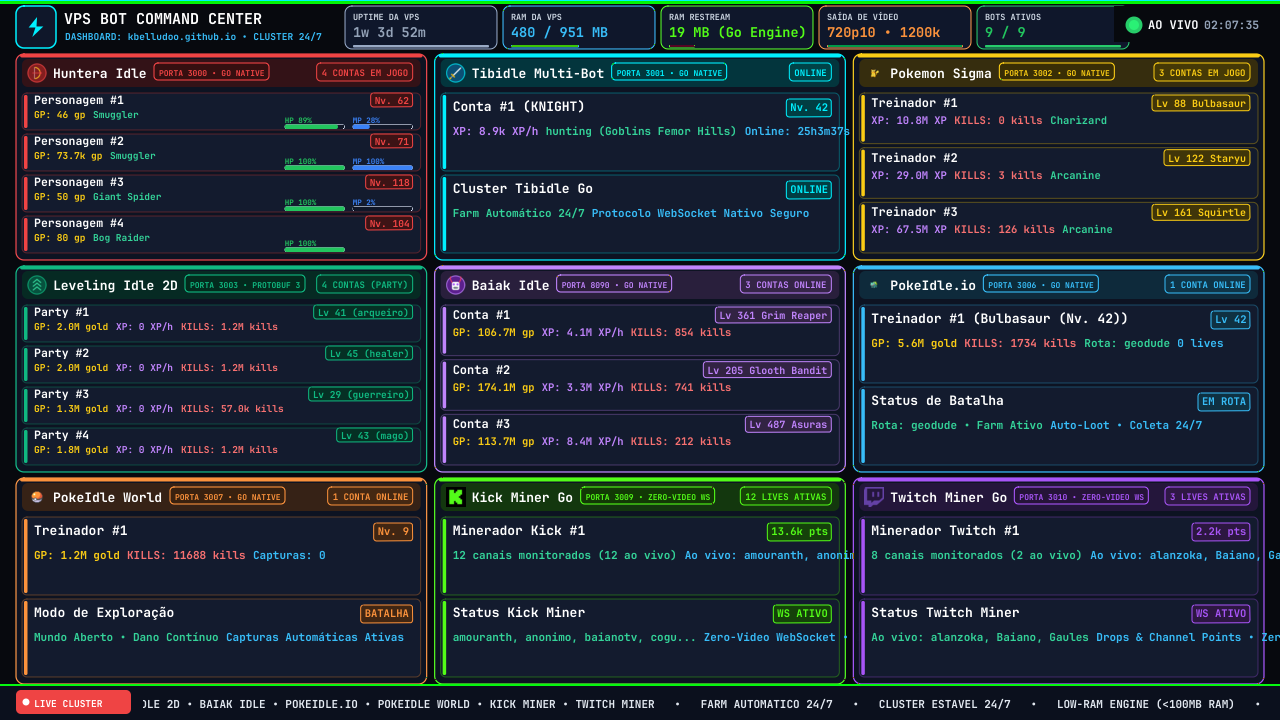
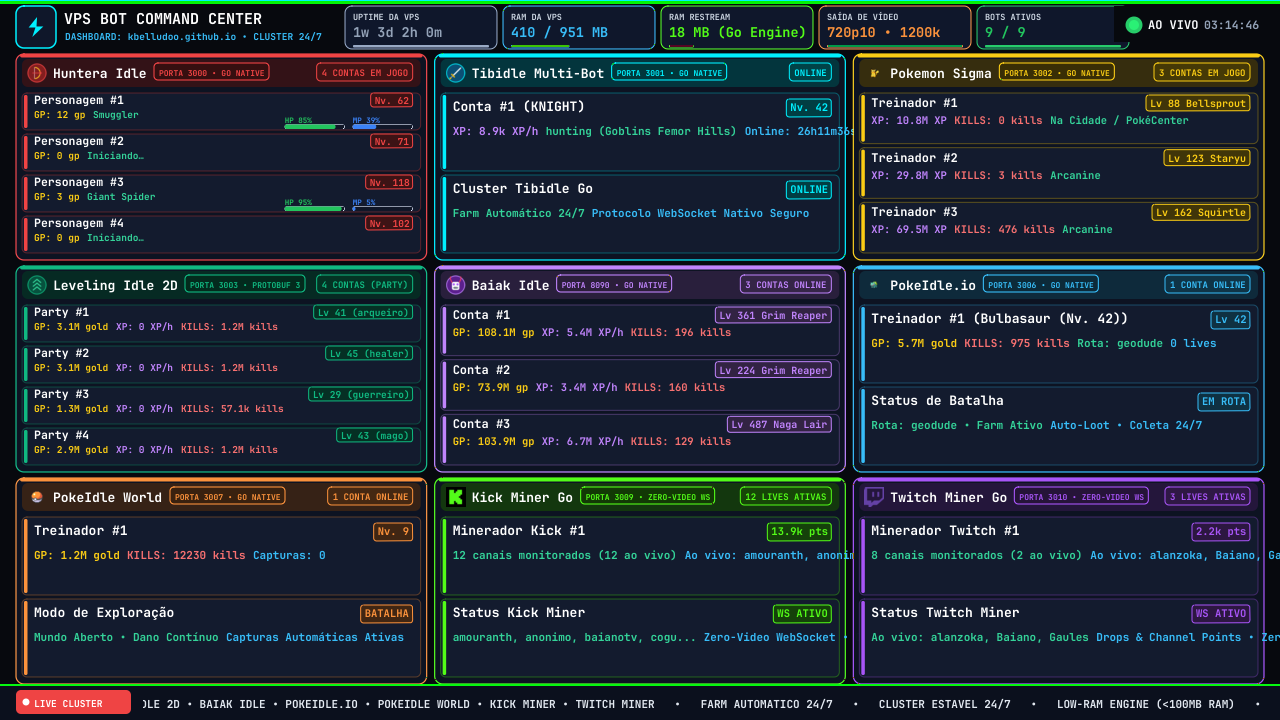
fix(hud): dynamically parse Baiak Go Native hunts from live telemetry

diff --git a/docs/index.html b/docs/index.html
@@ -696,11 +696,23 @@
         },
         {
           name: 'Baiak Idle', port: 8090, hex: '#c084fc', icon: 'baiak', badge: '3 CONTAS (GO NATIVE)',
-          rows: [
-            { label: 'Conta #1', tag: 'Lv 361 Grim Reaper', gold: '106.7M gp', xp: '4.1M XP/h', kills: '854 kills' },
-            { label: 'Conta #2', tag: 'Lv 205 Glooth Bandit', gold: '174.1M gp', xp: '3.3M XP/h', kills: '741 kills' },
-            { label: 'Conta #3', tag: 'Lv 487 Asuras', gold: '113.7M gp', xp: '8.4M XP/h', kills: '212 kills' }
-          ]
+          rows: (t.bots?.baiak?.status?.bots ? ['acc-1', 'acc-2', 'acc-3'].map((k, idx) => {
+            const b = t.bots.baiak.status.bots[k];
+            if (!b) return null;
+            const st = b.status || {};
+            const hunt = st.hunt?.name || st.currentArea || 'Grim Reaper';
+            return {
+              label: b.label || `Conta #${idx+1}`,
+              tag: `Lv ${st.level || 0} ${hunt}`,
+              gold: `${formatNum(st.gold || 0)} gp`,
+              xp: `${formatNum(st.rates?.xpPerHour || 0)} XP/h`,
+              kills: `${st.kills || 0} kills`
+            };
+          }).filter(Boolean) : [
+            { label: 'Conta #1', tag: 'Lv 361 Grim Reaper', gold: '108.1M gp', xp: '5.4M XP/h', kills: '69 kills' },
+            { label: 'Conta #2', tag: 'Lv 224 Grim Reaper', gold: '73.8M gp', xp: '3.4M XP/h', kills: '79 kills' },
+            { label: 'Conta #3', tag: 'Lv 487 Naga Lair', gold: '104.6M gp', xp: '6.7M XP/h', kills: '49 kills' }
+          ])
         },
         {
           name: 'PokeIdle.io', port: 3006, hex: '#38bdf8', icon: 'pokeidle', badge: '1 CONTA ONLINE',

diff --git a/cmd/hud/main.go b/cmd/hud/main.go
@@ -116,19 +116,23 @@ type TelemetryRoot struct {
 			Port   int    `json:"port"`
 			Status struct {
 				Bots map[string]struct {
-					Name   string `json:"name"`
-					Online bool   `json:"online"`
-					Status struct {
-						Character struct {
-							Level   int     `json:"level"`
-							Gold    float64 `json:"gold"`
-							Kills   float64 `json:"kills"`
-							XPRate  float64 `json:"xpRate"`
-							Stamina string  `json:"stamina"`
-							Hunt    struct {
-								Name string `json:"name"`
-							} `json:"hunt"`
-						} `json:"character"`
+					Label     string `json:"label"`
+					Name      string `json:"name"`
+					Online    bool   `json:"online"`
+					Reachable bool   `json:"reachable"`
+					Status    struct {
+						Level       int     `json:"level"`
+						Gold        float64 `json:"gold"`
+						Kills       float64 `json:"kills"`
+						CurrentArea string  `json:"currentArea"`
+						Vocation    string  `json:"vocation"`
+						Hunt        struct {
+							Name string `json:"name"`
+						} `json:"hunt"`
+						Rates struct {
+							XPPerHour   float64 `json:"xpPerHour"`
+							GoldPerHour float64 `json:"goldPerHour"`
+						} `json:"rates"`
 					} `json:"status"`
 				} `json:"bots"`
 			} `json:"status"`
@@ -520,21 +524,28 @@ func buildCardList(t TelemetryRoot) []BotCardData {
 		Badge:    "3 CONTAS ONLINE",
 		IconKey:  "baiak",
 	}
-	if len(t.Bots.Baiak.Status.Bots) > 0 {
-		count := 0
-		for _, b := range t.Bots.Baiak.Status.Bots {
-			if count >= 3 {
-				break
-			}
-			ch := b.Status.Character
-			if ch.Level > 0 {
-				count++
+	accKeys := []string{"acc-1", "acc-2", "acc-3"}
+	for i, k := range accKeys {
+		if b, ok := t.Bots.Baiak.Status.Bots[k]; ok {
+			st := b.Status
+			if st.Level > 0 {
+				lbl := b.Label
+				if lbl == "" {
+					lbl = fmt.Sprintf("Conta #%d", i+1)
+				}
+				huntName := st.Hunt.Name
+				if huntName == "" {
+					huntName = st.CurrentArea
+				}
+				if huntName == "" {
+					huntName = "Grim Reaper"
+				}
 				c5.Rows = append(c5.Rows, CardRow{
-					Label: fmt.Sprintf("Conta #%d", count),
-					Tag:   fmt.Sprintf("Lv %d %s", ch.Level, ch.Hunt.Name),
-					Gold:  fmt.Sprintf("%s gp", formatNum(ch.Gold)),
-					XP:    fmt.Sprintf("%s XP/h", formatNum(ch.XPRate)),
-					Kills: fmt.Sprintf("%.0f kills", ch.Kills),
+					Label: lbl,
+					Tag:   fmt.Sprintf("Lv %d %s", st.Level, huntName),
+					Gold:  fmt.Sprintf("%s gp", formatNum(st.Gold)),
+					XP:    fmt.Sprintf("%s XP/h", formatNum(st.Rates.XPPerHour)),
+					Kills: fmt.Sprintf("%.0f kills", st.Kills),
 				})
 			}
 		}
@@ -548,9 +559,9 @@ func buildCardList(t TelemetryRoot) []BotCardData {
 			xp   float64
 			hunt string
 		}{
-			{"Conta #1", 361, 106663954, 854, 4079952, "Grim Reaper"},
-			{"Conta #2", 205, 174101305, 741, 3276000, "Glooth Bandit"},
-			{"Conta #3", 487, 113670390, 212, 8384922, "Asuras"},
+			{"Conta #1", 361, 108123319, 69, 5440234, "Grim Reaper"},
+			{"Conta #2", 224, 73828615, 79, 3400763, "Grim Reaper"},
+			{"Conta #3", 487, 104670269, 49, 6703858, "Naga Lair"},
 		}
 		for _, b := range bList {
 			c5.Rows = append(c5.Rows, CardRow{
